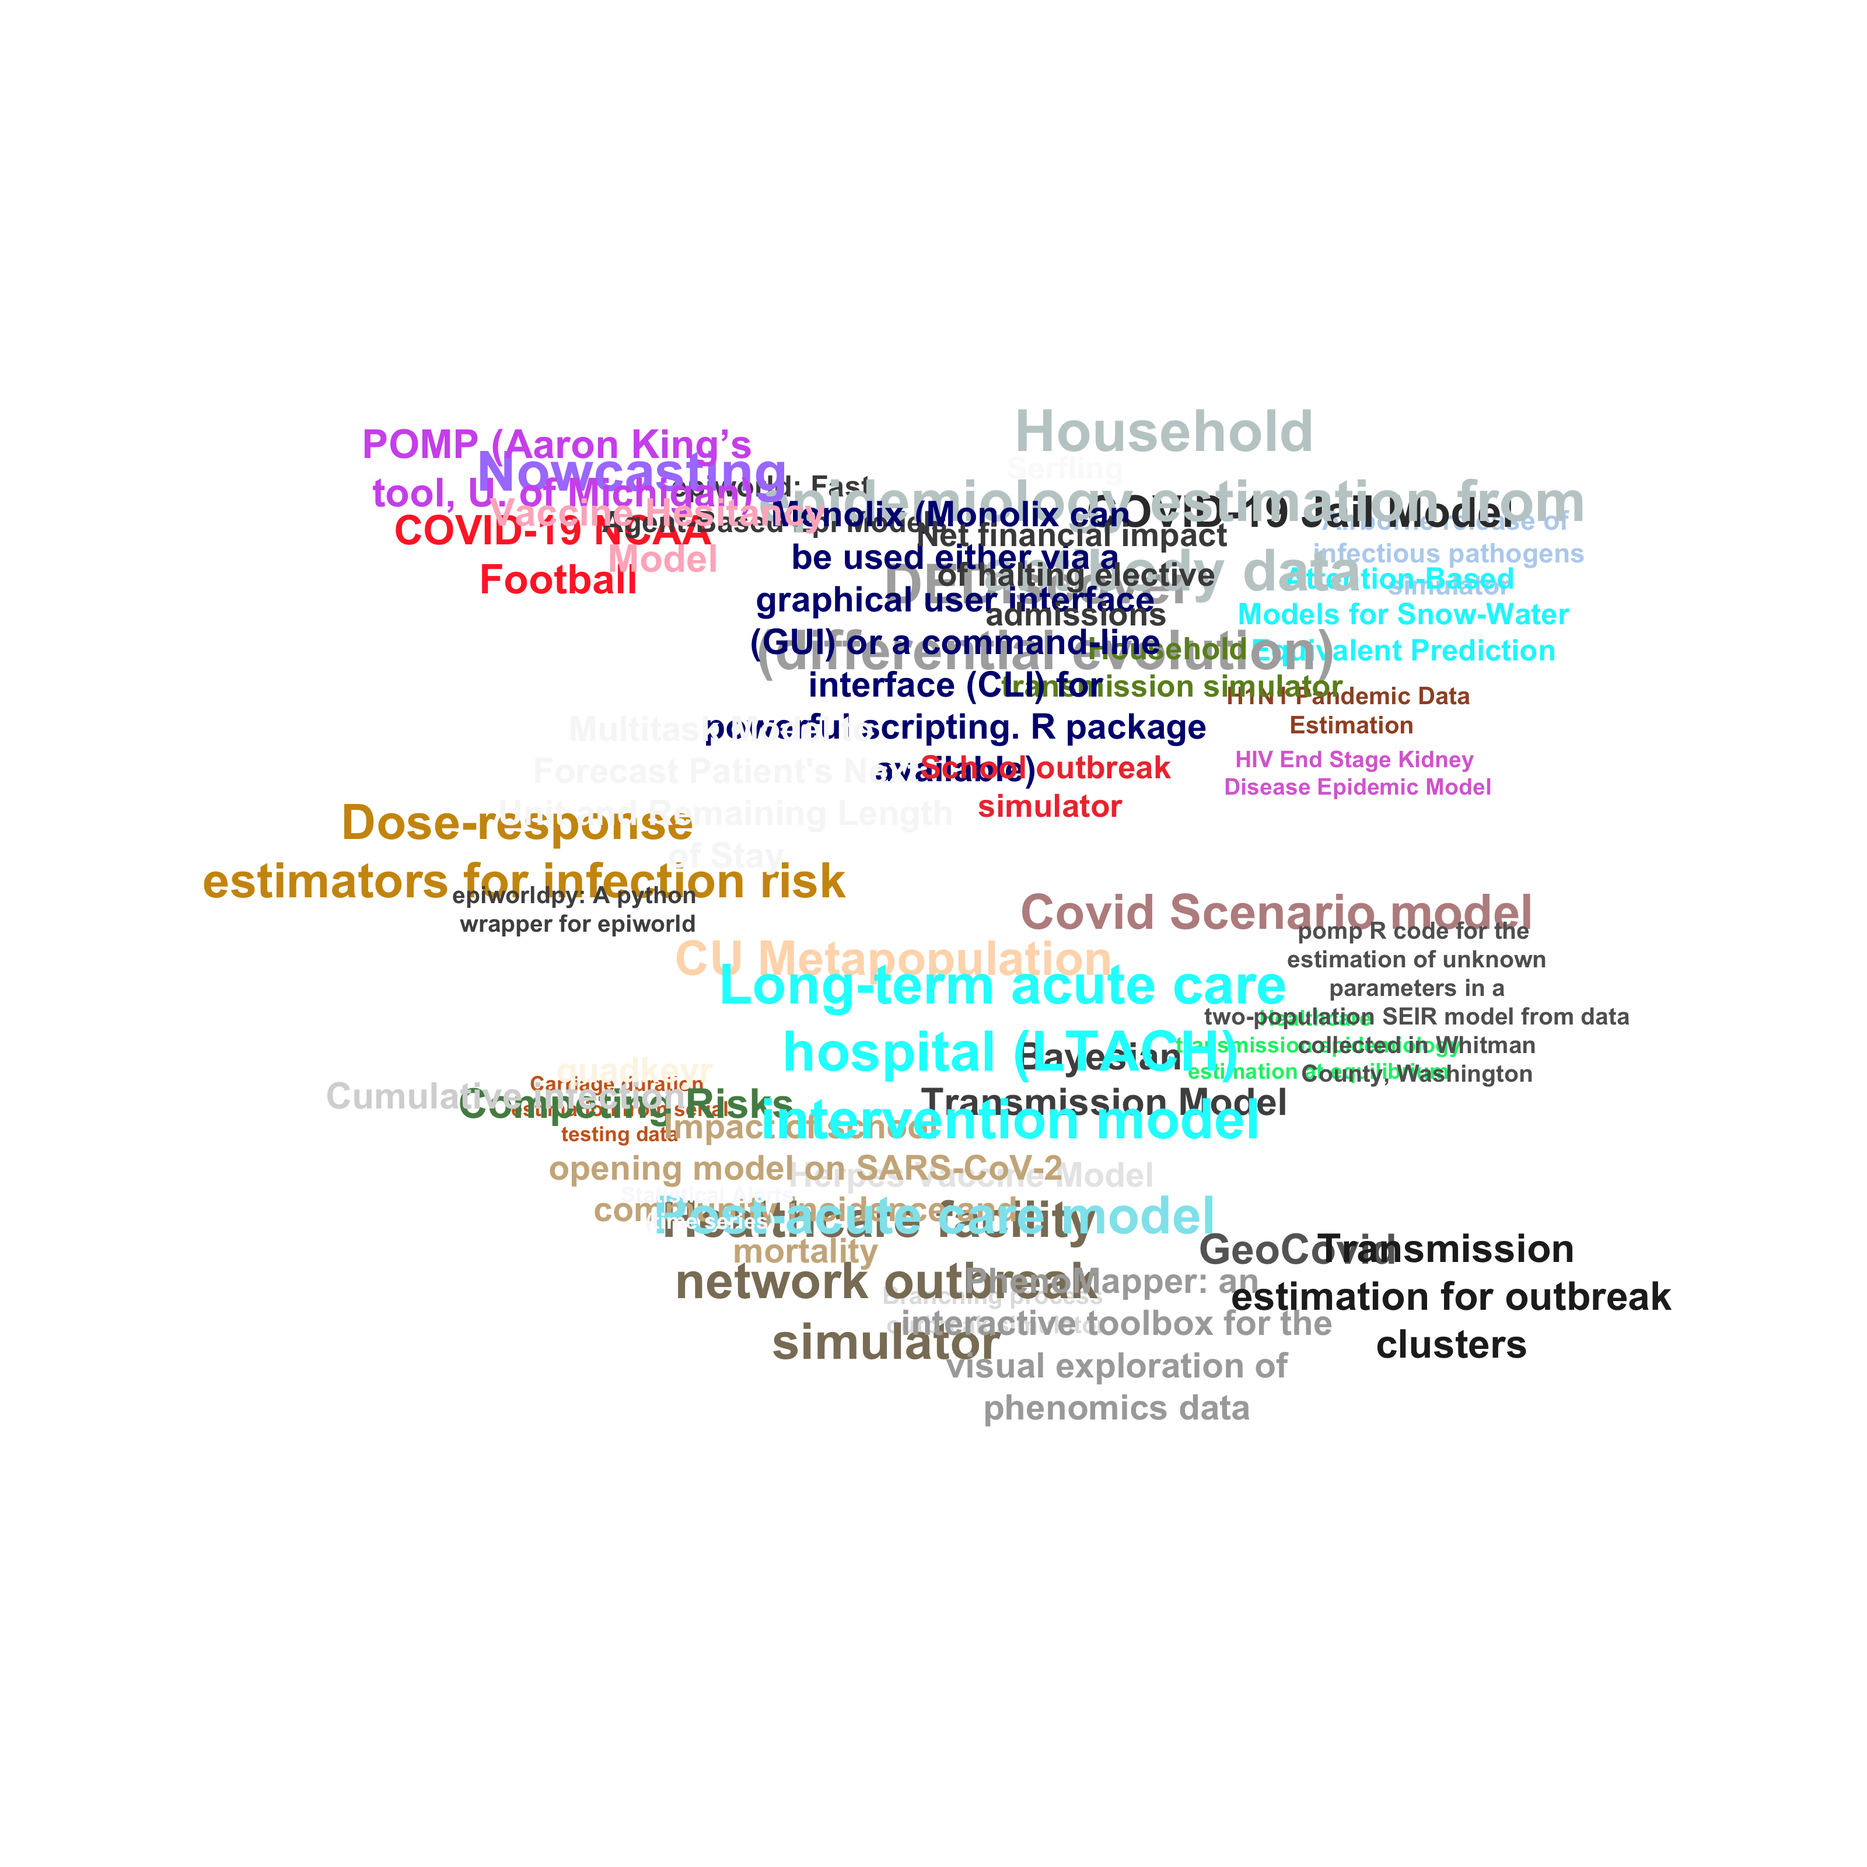
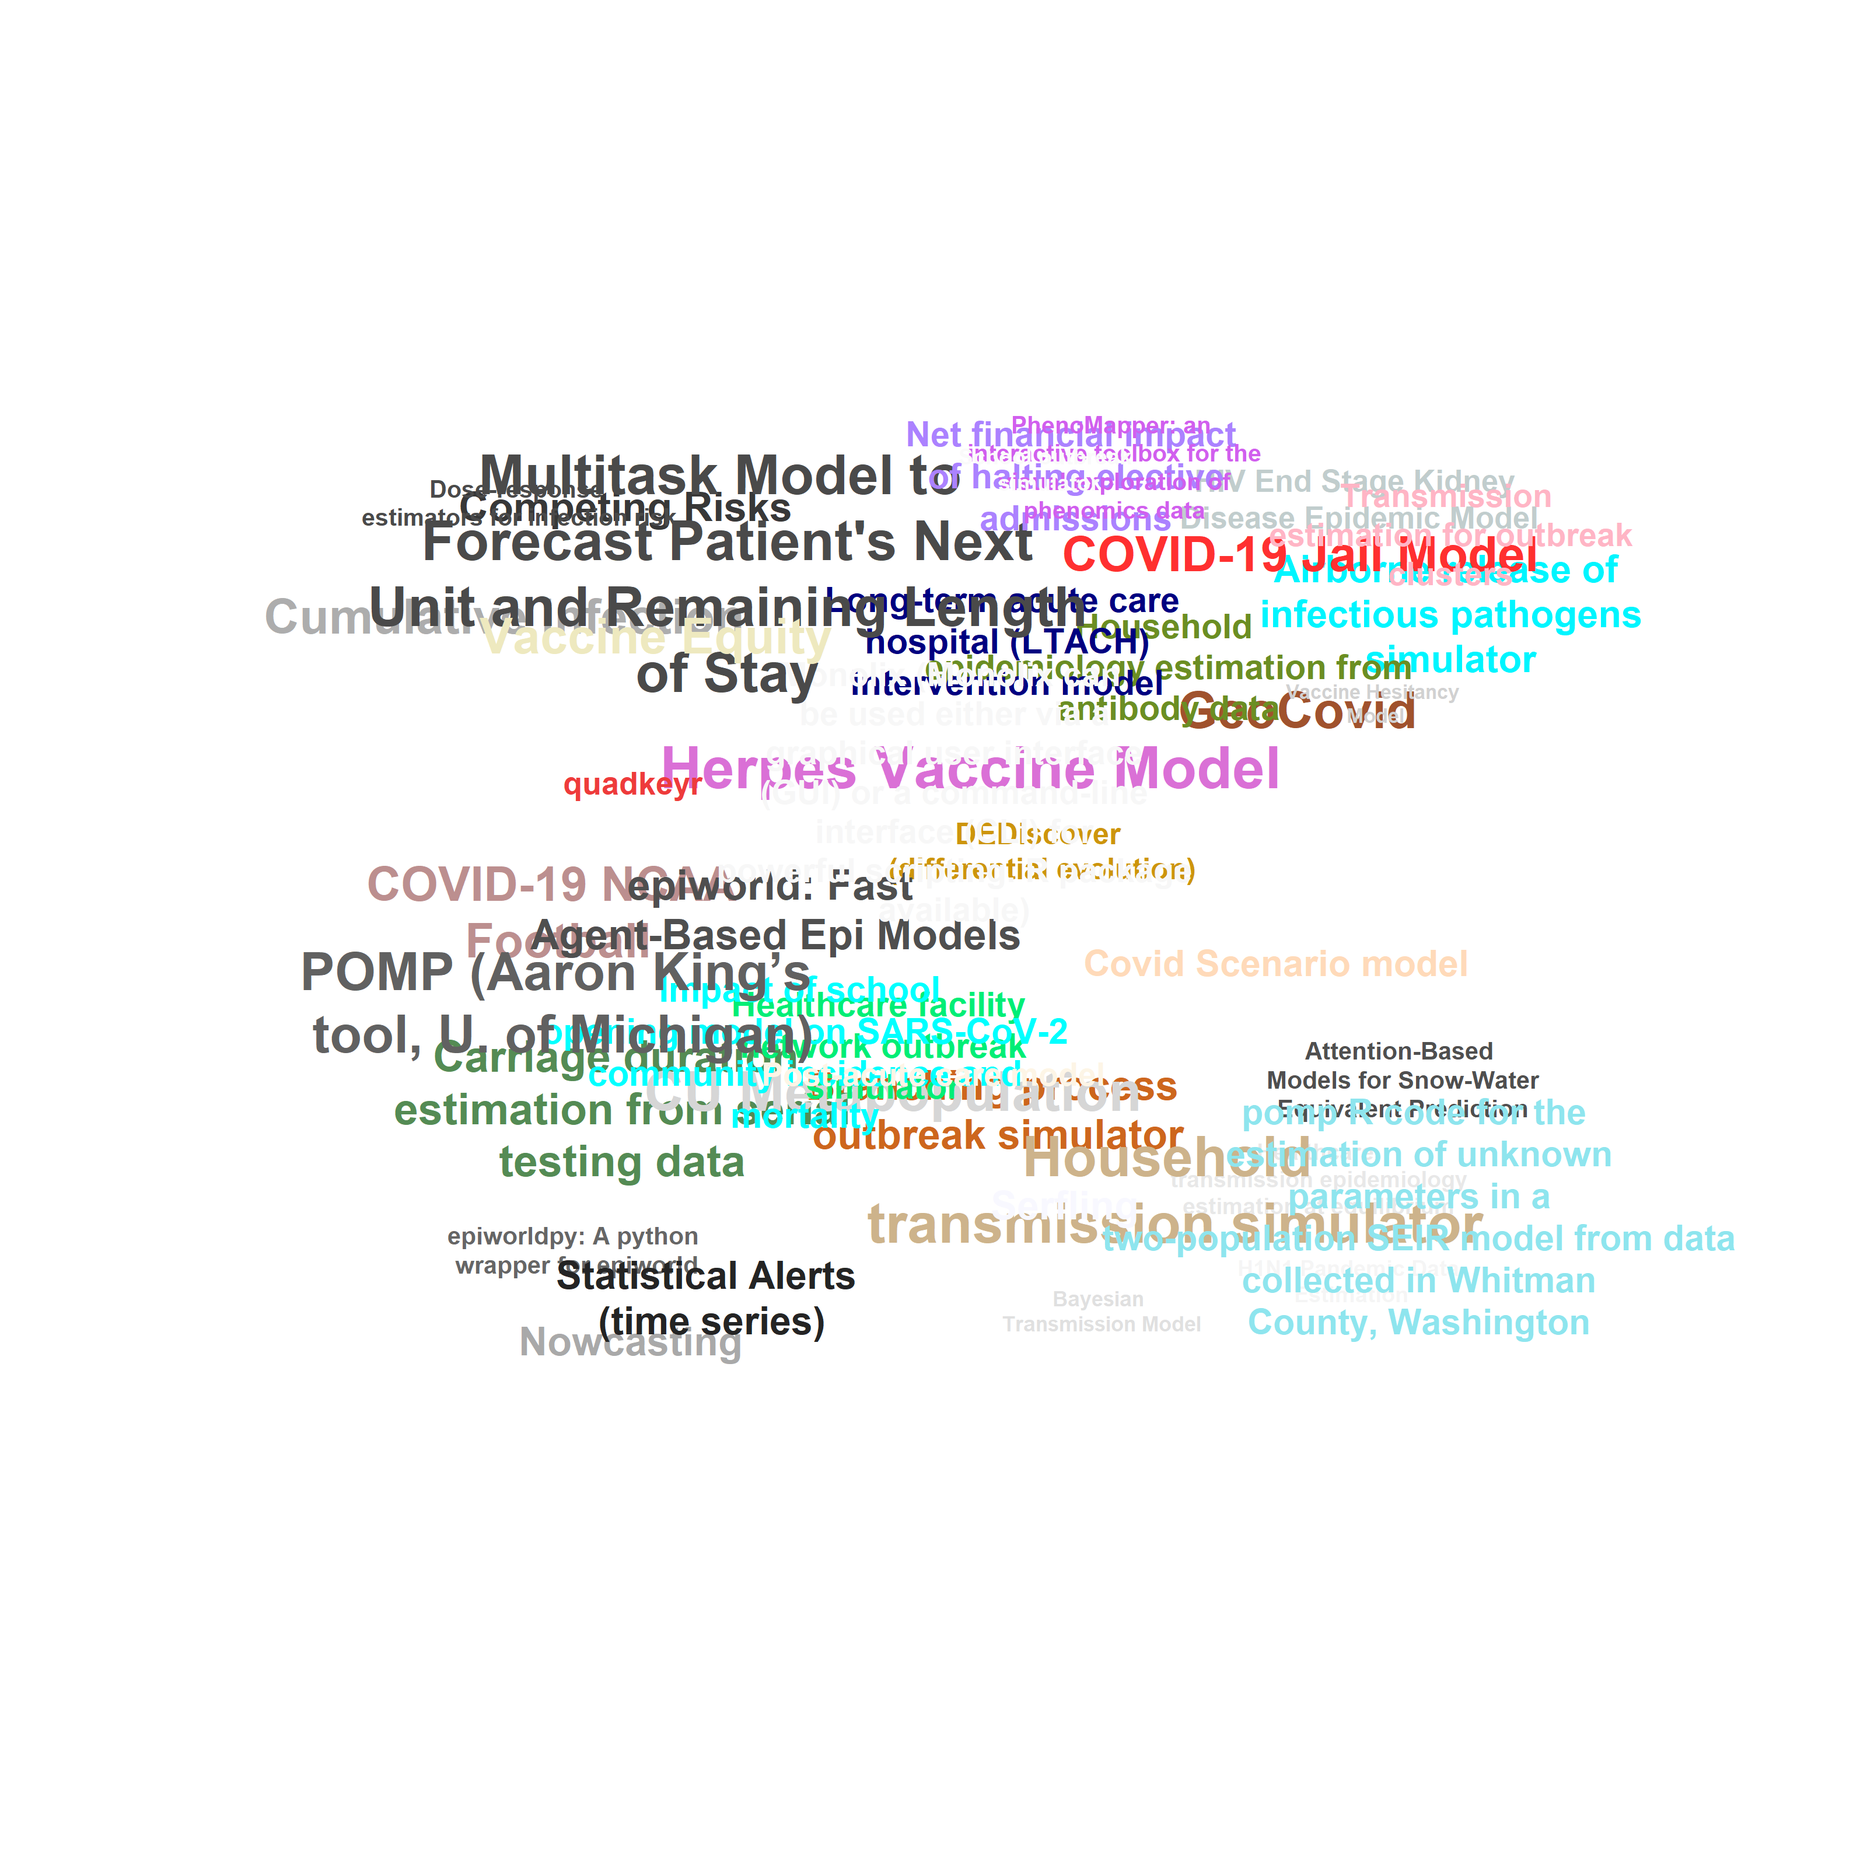
render readme

Changed region(s): [[0.0938, 0.2188, 0.9375, 0.7812]]

diff --git a/profiles.md b/profiles.md
@@ -1,6 +1,6 @@
 # Profiles
 
-This file is automatically generated and should not be edited manually. Last updated on 2024-11-06.
+This file is automatically generated and should not be edited manually. Last updated on 2024-11-26.
 
 ## Airborne release of infectious pathogens simulator
 
@@ -24,12 +24,12 @@ Provides estimates for critical epidemiological parameters that characterize the
 
 Contact: Karim Khader (email: karim.khader@hsc.utah.edu)
 
-Links:<br> 1.Khader K, Thomas A, Stevens V, Visnovsky L, Nevers M, Toth D, Keegan LT, Jones M, Rubin M, Samore MH (2021). Association Between Contact Precautions And Transmission of Methicillin-Resistant Staphylococcus Aureus in Veterans Affairs Hospitals. JAMA Netw Open.
-2.Khader K, Munoz-Price LS, Hanson R, Stevens V, Keegan LT, Thomas A, Pezzin LE, Nattinger A, Singh S, Samore MH (2021). Transmission Dynamics of Clostridioides difficile in 2 High-Acuity Hospital Units. Clin Infect Dis.
-3.Khader K, Thomas A, Huskins WC, Stevens V, Keegan LT, Visnovsky L, Samore MH (2021). Effectiveness of Contact Precautions to Prevent Transmission of Methicillin-Resistant Staphylococcus aureus and Vancomycin-Resistant Enterococci in Intensive Care Units. Clin Infect Dis.
-4.Khader K, Thomas A, Jones M, Toth D, Stevens V, Samore MH (2019). Variation and trends in transmission dynamics of Methicillin-resistant Staphylococcus aureus in veterans affairs hospitals and nursing homes. Epidemics.
-5.Thomas A, Khader K, Redd A, Leecaster M, Zhang Y, Jones M, Greene T, Samore M (2018). Extended models for nosocomial infection: parameter estimation and model selection. Math Med Biol, 35(suppl_1), 29-49.
-6.Khader K, Thomas A, Huskins WC, Leecaster M, Zhang Y, Greene T, Redd A, Samore MH (2017). A dynamic transmission model to evaluate the effectiveness of infection control strategies. Open Forum Infect Dis.
+Links:<br> 1.Khader K, Thomas A, Stevens V, Visnovsky L, Nevers M, Toth D, Keegan LT, Jones M, Rubin M, Samore MH (2021). Association Between Contact Precautions And Transmission of Methicillin-Resistant Staphylococcus Aureus in Veterans Affairs Hospitals. JAMA Netw Open.
+2.Khader K, Munoz-Price LS, Hanson R, Stevens V, Keegan LT, Thomas A, Pezzin LE, Nattinger A, Singh S, Samore MH (2021). Transmission Dynamics of Clostridioides difficile in 2 High-Acuity Hospital Units. Clin Infect Dis.
+3.Khader K, Thomas A, Huskins WC, Stevens V, Keegan LT, Visnovsky L, Samore MH (2021). Effectiveness of Contact Precautions to Prevent Transmission of Methicillin-Resistant Staphylococcus aureus and Vancomycin-Resistant Enterococci in Intensive Care Units. Clin Infect Dis.
+4.Khader K, Thomas A, Jones M, Toth D, Stevens V, Samore MH (2019). Variation and trends in transmission dynamics of Methicillin-resistant Staphylococcus aureus in veterans affairs hospitals and nursing homes. Epidemics.
+5.Thomas A, Khader K, Redd A, Leecaster M, Zhang Y, Jones M, Greene T, Samore M (2018). Extended models for nosocomial infection: parameter estimation and model selection. Math Med Biol, 35(suppl_1), 29-49.
+6.Khader K, Thomas A, Huskins WC, Leecaster M, Zhang Y, Greene T, Redd A, Samore MH (2017). A dynamic transmission model to evaluate the effectiveness of infection control strategies. Open Forum Infect Dis.
 7.Thomas A, Redd A, Khader K, Leecaster M, Greene T, Samore M (2015). Efficient parameter estimation for models of healthcare-associated pathogen transmission in discrete and continuous time. Math Med Biol, 32(1), 79-98.
 
 ## Branching process outbreak simulator
@@ -38,7 +38,7 @@ Quantifies risk posed by individual importers of a novel transmissible pathogen 
 
 Contact: Damon Toth (email: Damon.Toth@hsc.utah.edu)
 
-Links:<br> 1-Toth D, Gundlapalli A, Khader K, Pettey W, Rubin M, Adler F, Samore M (2015). Estimates of outbreak risk from new introductions of Ebola with immediate and delayed transmission control. Emerg Infect Dis, 21(8), 1402-1408. https://doi.org/10.3201/eid2108.150170.
+Links:<br> 1-Toth D, Gundlapalli A, Khader K, Pettey W, Rubin M, Adler F, Samore M (2015). Estimates of outbreak risk from new introductions of Ebola with immediate and delayed transmission control. Emerg Infect Dis, 21(8), 1402-1408. https://doi.org/10.3201/eid2108.150170.
 2-Toth D, Tanner W, Khader K, Gundlapalli A (2016). Estimates of the risk of large or long-lasting outbreaks of Middle East respiratory syndrome after importations outside the Arabian Peninsula. Epidemics, 16, 27-32. https://doi.org/10.1016/j.epidem.2016.04.002
 
 ## Carriage duration estimation from serial testing data
@@ -111,7 +111,7 @@ Estimate infection probability from a given dose of exposure using data sets fro
 
 Contact: Damon Toth (email: Damon.Toth@hsc.utah.edu)
 
-Links:<br> 1-Toth D, Gundlapalli A, Schell W, Bulmahn K, Walton T, Woods C, Coghill C, Gallegos F, Samore M, Adler F (2013). Quantitative models of the dose-response and time course of inhalational anthrax in humans. PLoS Pathog, 9(8), e1003555. https://doi.org/10.1371/journal.ppat.1003555.
+Links:<br> 1-Toth D, Gundlapalli A, Schell W, Bulmahn K, Walton T, Woods C, Coghill C, Gallegos F, Samore M, Adler F (2013). Quantitative models of the dose-response and time course of inhalational anthrax in humans. PLoS Pathog, 9(8), e1003555. https://doi.org/10.1371/journal.ppat.1003555.
 2-Bulmahn K, Canella M, Coghill C, Gallegos F, Gundlapalli A, Schell W, Toth D, Walton T, Woods C (2012). Final Supplementary Risk Assessment for the Boston University National Emerging Infectious Diseases Laboratories, National Institutes of Health. https://www.bu.edu/neidl/files/2013/01/SFEIR-Volume-III.pdf (Chapter 8; Appendix J).
 
 ## epiworld: Fast Agent-Based Epi Models
@@ -160,7 +160,7 @@ Estimate the extent of patient-to-patient transmission and other quantities usin
 
 Contact: Damon Toth (email: Damon.Toth@hsc.utah.edu)
 
-Links:<br> o	Toth D, Khader K, Beams A, Samore M (2019). Model-based Assessment of the Effect of Contact Precautions Applied to Surveillance-detected Carriers of Carbapenemase-producing Enterobacteriaceae in Long-term Acute Care Hospitals, Clinical Infectious Diseases 69(Supplement_3), S206–S213. https://doi.org/10.1093/cid/ciz557.
+Links:<br> o	Toth D, Khader K, Beams A, Samore M (2019). Model-based Assessment of the Effect of Contact Precautions Applied to Surveillance-detected Carriers of Carbapenemase-producing Enterobacteriaceae in Long-term Acute Care Hospitals, Clinical Infectious Diseases 69(Supplement_3), S206–S213. https://doi.org/10.1093/cid/ciz557.
 o	Toth D, Samore M, Nelson R (2021), Economic Evaluations of New Antibiotics: The High Potential Value of Reducing Healthcare Transmission Through Decolonization, Clinical Infectious Diseases 72(Supplement_1), S34–S41. https://doi.org/10.1093/cid/ciaa1590.
 
 ## Herpes Vaccine Model
@@ -185,7 +185,7 @@ Simultaneously estimate household importation risk, household secondary attack r
 
 Contact: Damon Toth (email: Damon.Toth@hsc.utah.edu)
 
-Links:<br> 1-Toth D, Beams A, Keegan L, Zhang Y, Greene T, Orleans B, Seegert N, Looney A, Alder S, Samore M (2021). High variability in transmission of SARS-CoV-2 within households and implications for control. PLoS ONE 16(11): e0259097. https://doi.org/10.1371/journal.pone.0259097.
+Links:<br> 1-Toth D, Beams A, Keegan L, Zhang Y, Greene T, Orleans B, Seegert N, Looney A, Alder S, Samore M (2021). High variability in transmission of SARS-CoV-2 within households and implications for control. PLoS ONE 16(11): e0259097. https://doi.org/10.1371/journal.pone.0259097.
 2-Manuscript with age-structured model in preparation
 
 ## Household transmission simulator
@@ -315,6 +315,14 @@ Provides estimates for individual-level transmission distribution (mean and vari
 Contact: Damon Toth (email: Damon.Toth@hsc.utah.edu)
 
 Links:<br> 1-Toth D, Gundlapalli A, Khader K, Pettey W, Rubin M, Adler F, Samore M (2015). Estimates of outbreak risk from new introductions of Ebola with immediate and delayed transmission control. Emerg Infect Dis, 21(8), 1402-1408. https://doi.org/10.3201/eid2108.150170. 2-Toth D, Tanner W, Khader K, Gundlapalli A (2016). Estimates of the risk of large or long-lasting outbreaks of Middle East respiratory syndrome after importations outside the Arabian Peninsula. Epidemics, 16, 27-32. https://doi.org/10.1016/j.epidem.2016.04.002.
+
+## Vaccine Equity
+
+A tool for exploring the effects of varying rates of vaccination among disparate socio-economic groups
+
+Contact: Damon Togh (email: damon.toth@hcs.utah.edu)
+
+Links:<br> https://github.com/EpiForeSITE/vaccine-equity-model
 
 ## Vaccine Hesitancy Model
 

diff --git a/README.md b/README.md
@@ -5,13 +5,13 @@
 This repository is used for coordinating all the software development
 activities by the ForeSITE group.
 
-The list includes 39 tools. A complete list featuring completed and
-work-in-progress tools holds 54 entries. We will be updating this list
+The list includes 40 tools. A complete list featuring completed and
+work-in-progress tools holds 55 entries. We will be updating this list
 as we progress.
 
 |     | Type                                                      |   N |
 |:----|:----------------------------------------------------------|----:|
-| 3   | Epidemic Model - Scenario Modeling                        |  19 |
+| 3   | Epidemic Model - Scenario Modeling                        |  20 |
 | 6   | Parameter estimation                                      |  12 |
 | 4   | Epidemic Model - Scenario Modeling & Parameter estimation |   2 |
 | 1   | Decision Support tool                                     |   1 |
@@ -23,7 +23,7 @@ Number of software packages by type
 
 | Language |   N |
 |:---------|----:|
-| r        |  19 |
+| r        |  20 |
 | Other    |  11 |
 | python   |   7 |
 | c++      |   3 |
@@ -37,7 +37,7 @@ Number of software packages by programming language.
 # Existing software packages
 
 List of existing software packages that are being used by the ForeSITE
-group. This list was last updated on 2024-11-06.
+group. This list was last updated on 2024-11-26.
 
 | N | Tool | Description |
 |---:|:---|:---|
@@ -79,6 +79,7 @@ group. This list was last updated on 2024-11-06.
 | 36 | Serfling (JMP) | Classic Serfling-type regression model for seasonal diseases. Can be used to estimate both excess risk (based on breaching a threshold), or estimate the peak week and other parameters of a yearly epidemic curve.<br>([Learn more…](profiles.md#serfling))<br> |
 | 37 | Statistical Alerts (time series) (R) | We have supported an Operations system for processing time series for “aberrations” (aka, “alerts”, “potential outbreaks”) for 8+ years in VA BASIC. During this time, we’ve integrated several among the suite of algorithms available in the R package titled “surveillance”. This includes several classes of numerical methods, of which some are window-based, control chart-based or trained linear models. A brief presentation on this is attached here.<br>([Learn more…](profiles.md#statistical-alerts-time-series))<br> |
 | 38 | Transmission estimation for outbreak clusters (R) | Provides estimates for individual-level transmission distribution (mean and variance) based on data from prior isolated outbreak clusters. Useful for quantifying the risk of superspreading events and the risk that future outbreaks will exceed a given threshold.Parameter estimated: Basic reproduction number; dispersion parameter quantifying variance in transmission; extensions estimate changes in reproduction number by generation, e.g. post-control reproduction number. Estimated via maximum likelihood using final size distribution equations for branching process models.<br>([Learn more…](profiles.md#transmission-estimation-for-outbreak-clusters))<br> |
-| 39 | Vaccine Hesitancy Model (Matlab, R, and Mathematica.) | An ODE (ordinary differential equation)-based SVEIR model with 3 compartments for symptoms (mild, moderate, severe) that can quantify the tradeoffs between vaccine efficacy and vaccine hesitancy on reducing the disease burden. Scenarios(s) Modeled: R0, cumulative infections, and deaths due to varying values of transmission rate, vaccine coverage rate, vaccine efficacy, and vaccine hesitancy. The vaccine efficacy required to compensate for different levels of vaccine hesitancy.<br>([Learn more…](profiles.md#vaccine-hesitancy-model))<br> |
+| 39 | Vaccine Equity (R) | A tool for exploring the effects of varying rates of vaccination among disparate socio-economic groups<br>([Learn more…](profiles.md#vaccine-equity))<br>**GitHub:** [![GitHub last commit](https://img.shields.io/github/last-commit/EpiForeSITE/vaccine-equity-model.png)](https://github.com/EpiForeSITE/vaccine-equity-model) |
+| 40 | Vaccine Hesitancy Model (Matlab, R, and Mathematica.) | An ODE (ordinary differential equation)-based SVEIR model with 3 compartments for symptoms (mild, moderate, severe) that can quantify the tradeoffs between vaccine efficacy and vaccine hesitancy on reducing the disease burden. Scenarios(s) Modeled: R0, cumulative infections, and deaths due to varying values of transmission rate, vaccine coverage rate, vaccine efficacy, and vaccine hesitancy. The vaccine efficacy required to compensate for different levels of vaccine hesitancy.<br>([Learn more…](profiles.md#vaccine-hesitancy-model))<br> |
 
 ![](README_files/figure-commonmark/wordcloud-1.png)
